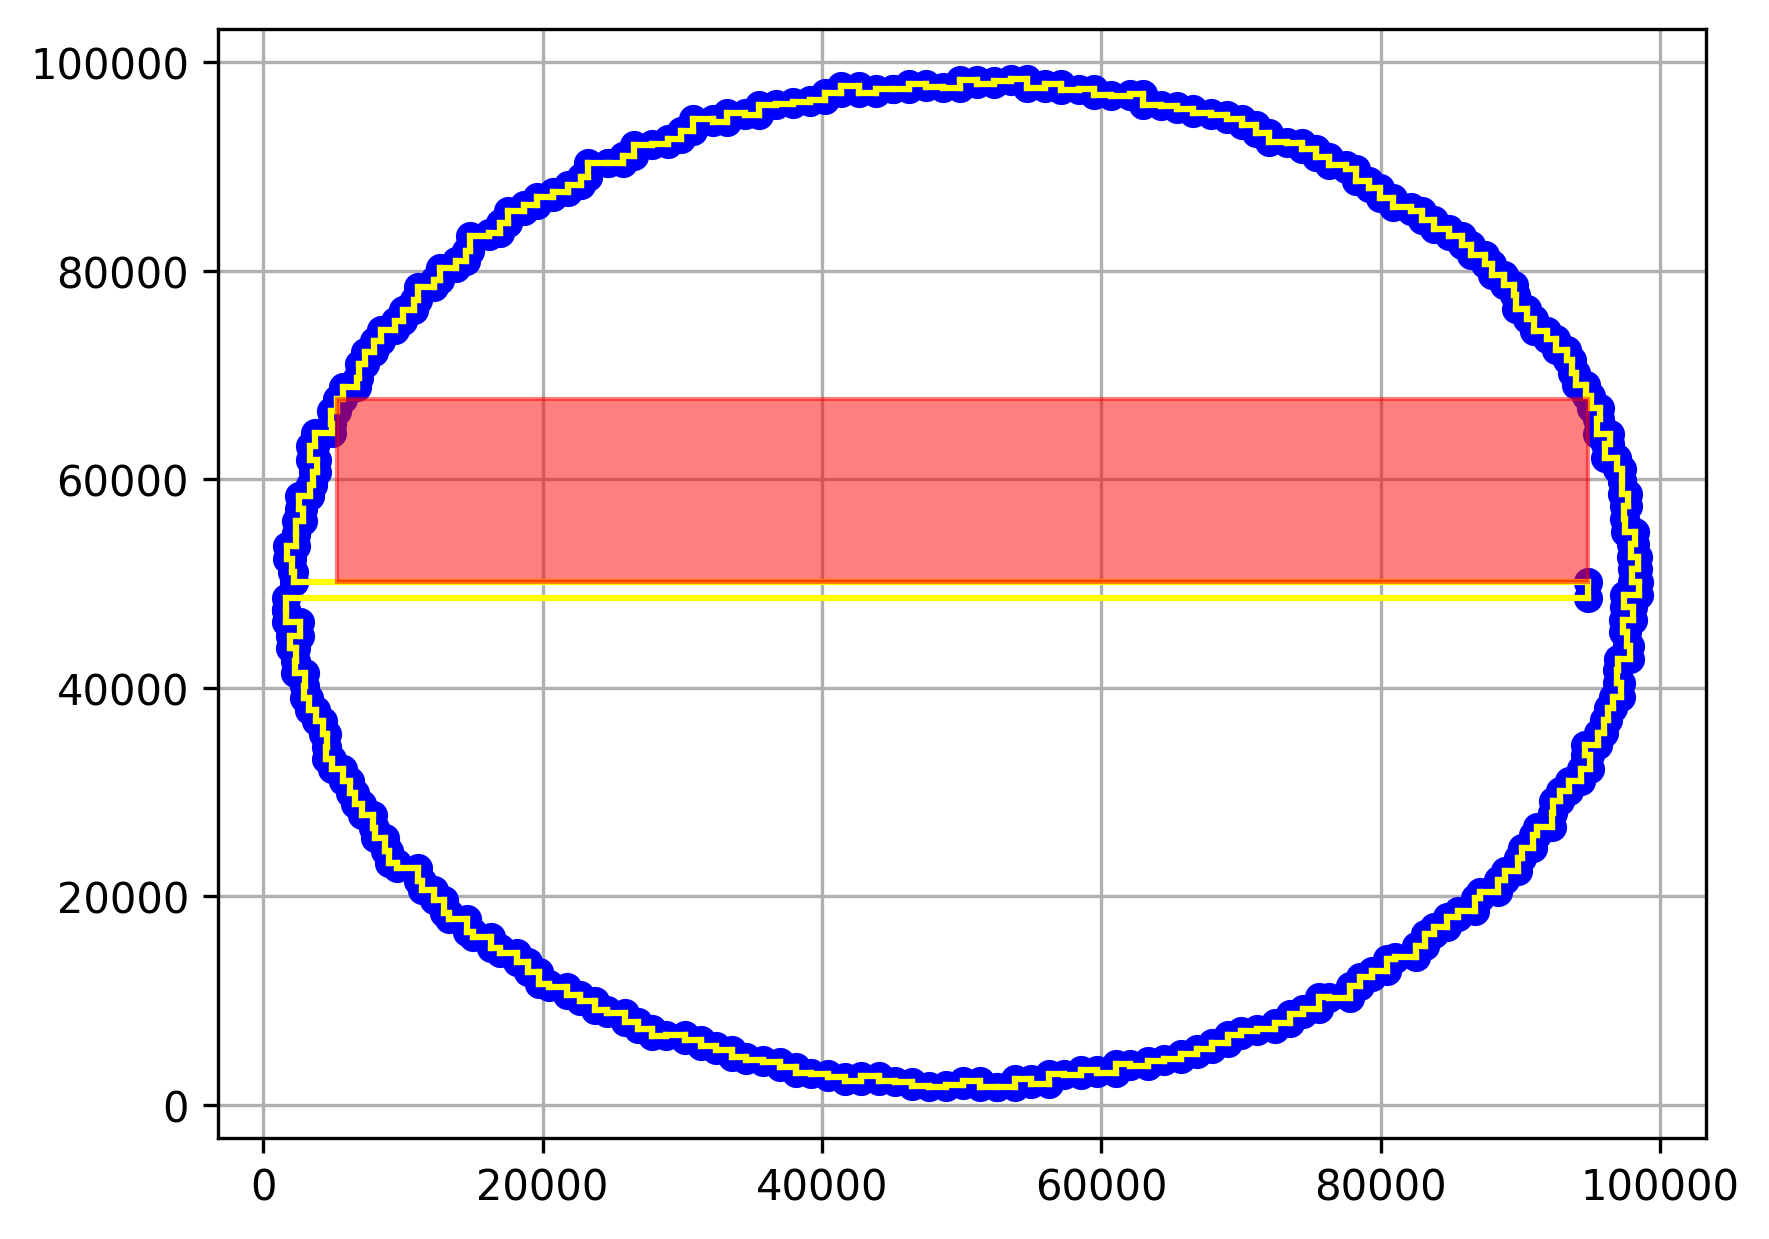
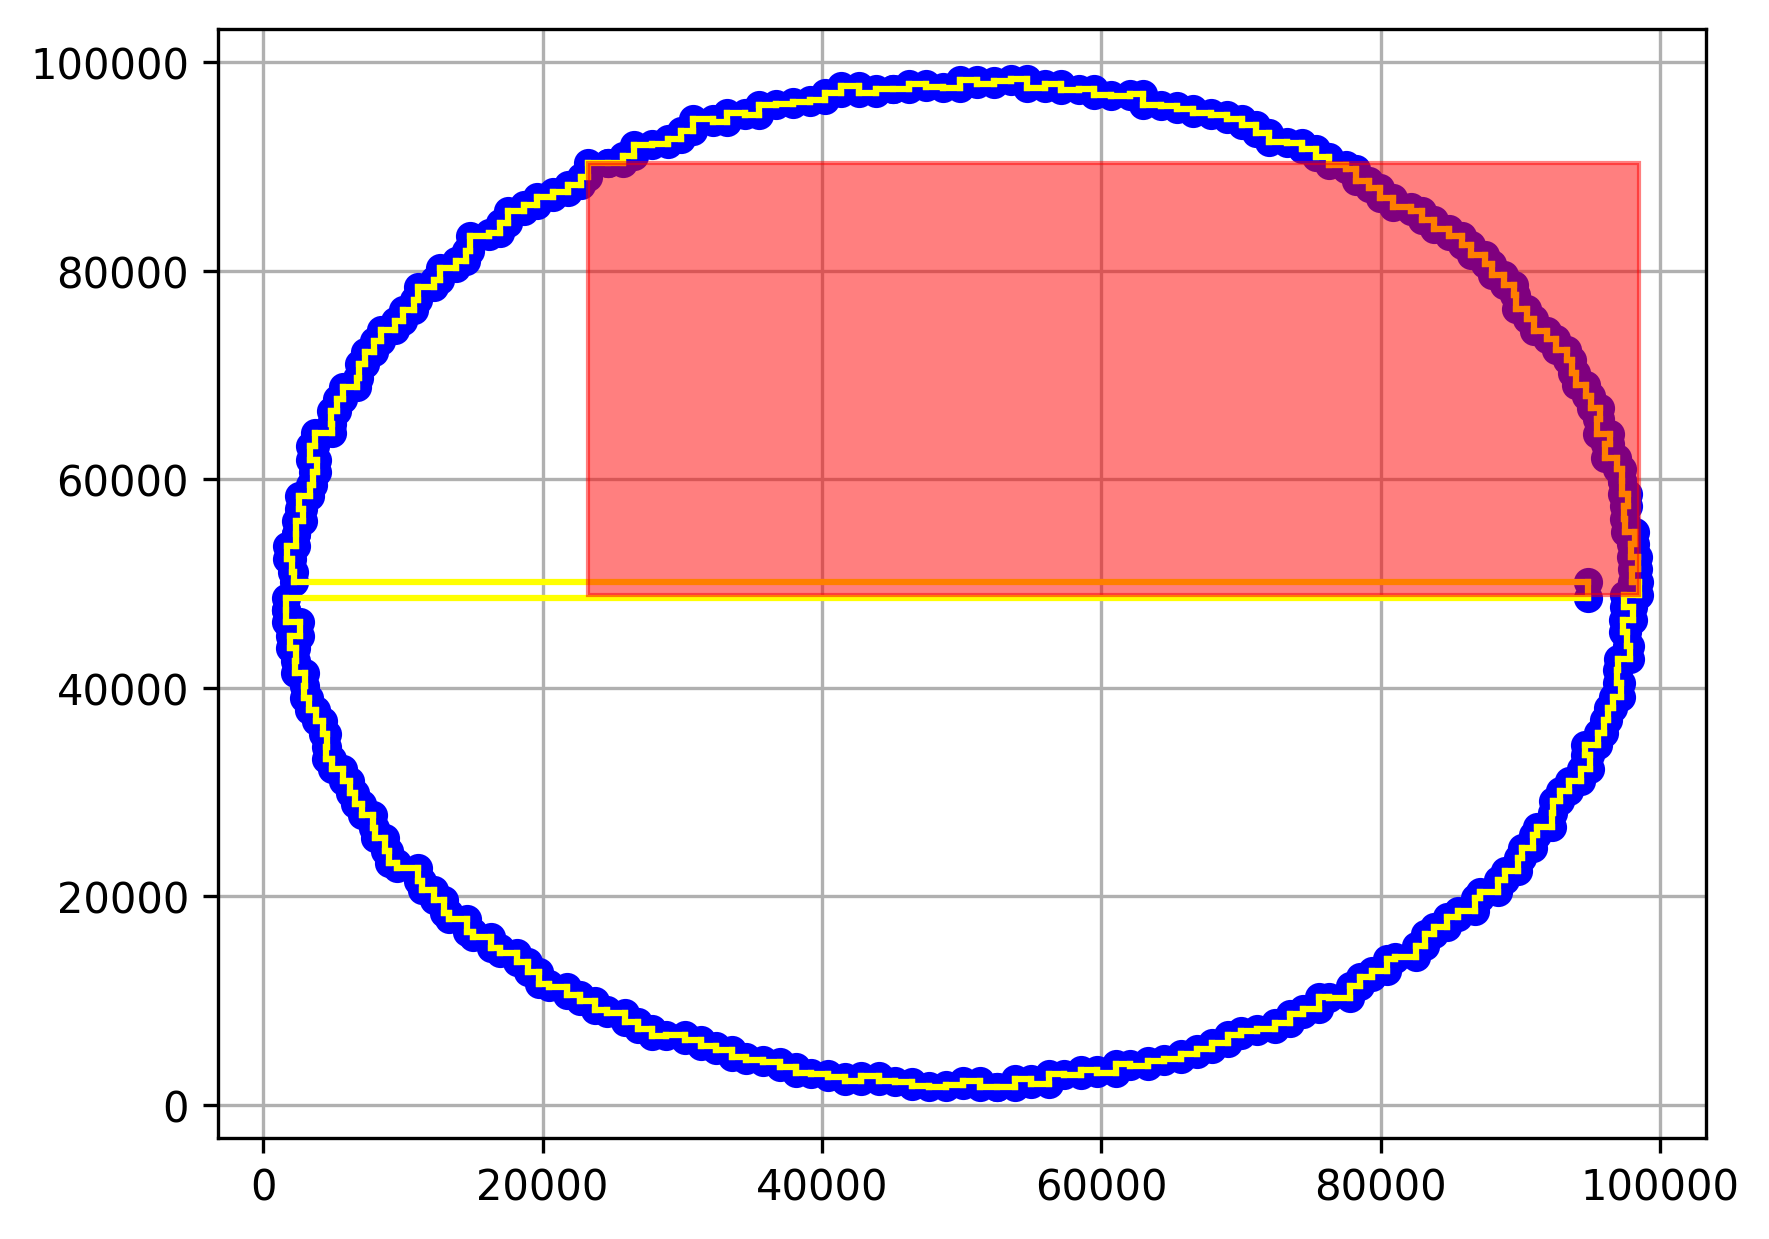
wip

Changed region(s): [[0.1865, 0.1227, 0.9327, 0.4907]]

diff --git a/python/solutions/day_09.py b/python/solutions/day_09.py
@@ -60,20 +60,30 @@ class Day09(AOCSolution):
 
     def part_two(self) -> int:
         """Find maximum area of any rectangle with only red and green tiles"""
-        if self.sample:
-            return 24
-
         self.plot_init()
-        # by inspection of the plot the largest rectangle will have a corner or either (94865, 50110) or (94865, 48656)
-        # so assume one of these then move round circle calculating areas
-        # start by trying the top one
-        v1 = (94865, 50110)
-        areas = {}
-        for v2 in self.parsed_data:
-            if v1[1] < v2[1]:
-                diag = (v1[0], v2[1])
-                if any(diag[0] < p[0] and diag[1] < p[1] for p in self.parsed_data):
-                    areas[(v1, v2)] = self.area(v1, v2)
+        areas: dict[tuple[Vec, Vec], int] = {}
+
+        for (x1, y1), (x2, y2) in itertools.combinations(self.parsed_data, 2):
+            # skip straight lines
+            if x1 == x2  or y1 == y2:
+                continue
+            
+            m = (y2 - y1) / (x2 - x1)
+            c = y1 - m*x1
+            # check if rectangle crosses perimeter by checking pairwise coords
+            for (p1, q1), (p2, q2) in itertools.pairwise(self.parsed_data + [self.parsed_data[0]]):
+                if p1 == p2:
+                    # vertical line - check if line collides with the line x = p1 between q1 and q2
+                    y_intersect = m * p1 + c
+                    if min(q1, q2) < y_intersect < max(q1, q2):
+                        break
+                if q1 == q2:
+                    # horizontal line - check if line collides with the line y = q1 between p1 and p2
+                    x_intersect = (q1 - c) / m 
+                    if min(p1, p2) < x_intersect < max(p1, p2):
+                        break
+            else:
+                areas[((x1, y1), (x2, y2))] = self.area((x1, y1), (x2, y2))
 
         best = max(areas.items(), key=lambda pair: pair[1])
         self.plot_rect(*best[0])
